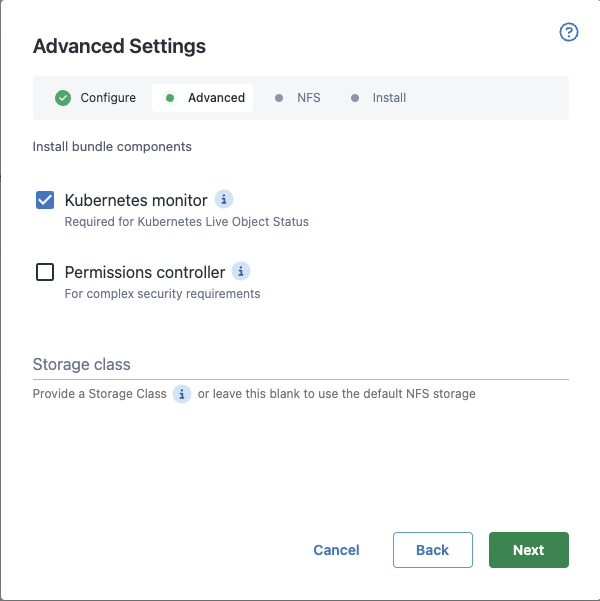
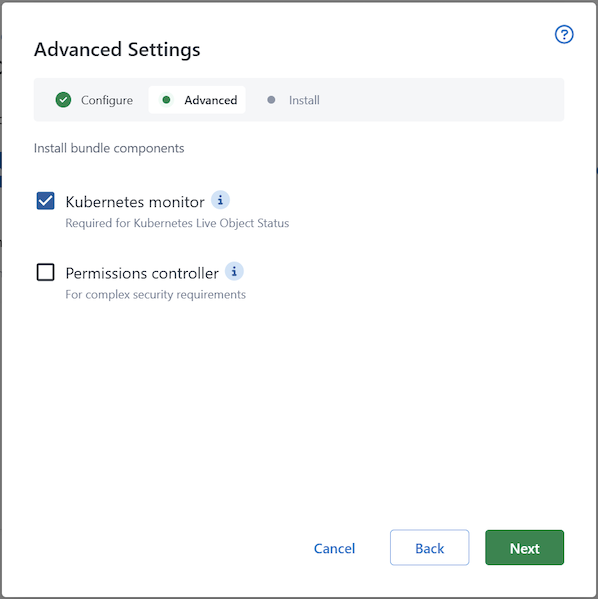
Tweak Kubernetes agent docs to support v3 (#3122)

diff --git a/src/pages/docs/kubernetes/targets/kubernetes-agent/index.md b/src/pages/docs/kubernetes/targets/kubernetes-agent/index.md
@@ -1,7 +1,7 @@
 ---
 layout: src/layouts/Default.astro
 pubDate: 2024-04-22
-modDate: 2026-01-15
+modDate: 2026-04-30
 title: Kubernetes agent
 navTitle: Overview
 navSection: Kubernetes agent
@@ -43,7 +43,7 @@ When you install the agent, several resources will be created within a cluster, 
 
 - Certain resource names may vary based on the target name and any overrides.
 
-- The NFS section to the right is created only when a user-defined storageClassName is not included.
+- The NFS section to the right is only relevant for pre-version v3 of the agent
 
 - `tentacle-certificate` is only created if you provide your own certificate during installation.
 
@@ -75,17 +75,22 @@ Upon completion of the task, the pod will terminate itself.
 
 The Kubernetes agent follows [semantic versioning](https://semver.org/), so a major agent version is locked to a Octopus Server version range. Updating to the latest major agent version requires updating to a supported Octopus Server. The supported versions for each agent major version are:
 
-| Kubernetes agent | Octopus Server           | Kubernetes cluster   |
-| ---------------- | ------------------------ | -------------------- |
-| 1.0.0 - 1.16.1   | **2024.2.6580** or newer | **1.26** to **1.29** |
-| 1.17.0 - 1.19.2  | **2024.2.6580** or newer | **1.27** to **1.30** |
-| 1.20.0 - 1.21.0  | **2024.2.6580** or newer | **1.28** to **1.31** |
-| 1.22.0 - 1.\*.\* | **2024.2.6580** or newer | **1.29** to **1.32** |
-| 2.0.0 - 2.2.1    | **2024.2.9396** or newer | **1.26** to **1.29** |
-| 2.3.0 - 2.8.2    | **2024.2.9396** or newer | **1.27** to **1.30** |
-| 2.9.0 - 2.11.3   | **2024.2.9396** or newer | **1.28** to **1.31** |
-| 2.12.0 - 2.25.1  | **2024.2.9396** or newer | **1.29** to **1.32** |
-| 2.26.0 - 2.\*.\* | **2024.2.9396** or newer | **1.30** to **1.33** |
+| Kubernetes agent  | Octopus Server             | Kubernetes cluster   |
+| ----------------- | -------------------------- | -------------------- |
+| 1.0.0 - 1.16.1    | **2024.2.6580** or newer   | **1.26** to **1.29** |
+| 1.17.0 - 1.19.2   | **2024.2.6580** or newer   | **1.27** to **1.30** |
+| 1.20.0 - 1.21.0   | **2024.2.6580** or newer   | **1.28** to **1.31** |
+| 1.22.0 - 1.24.0 * | **2024.2.6580** or newer   | **1.29** to **1.32** |
+| 2.0.0 - 2.2.1     | **2024.2.9396** or newer   | **1.26** to **1.29** |
+| 2.3.0 - 2.8.2     | **2024.2.9396** or newer   | **1.27** to **1.30** |
+| 2.9.0 - 2.11.3    | **2024.2.9396** or newer   | **1.28** to **1.31** |
+| 2.12.0 - 2.25.1   | **2024.2.9396** or newer   | **1.29** to **1.32** |
+| 2.26.0 - 2.37.0   | **2024.2.9396** or newer   | **1.30** to **1.33** |
+| 2.38.1 - 2.\*.\*  | **2024.2.9396** or newer   | **1.30** to **1.33** |
+| 3.0.0 - 3.\*.\*   | **2024.2.9396** or newer † | **1.32** to **1.35** |
+
+\* Version 1 of the Kubernetes agent is not longer maintained.  
+† Version 3 of the Kubernetes agent of the Kubernetes agent is compatible with this version, however it is only prompted as the installed version in **2026.2.7054** or newer.  
 
 Additionally, the Kubernetes agent only supports **Linux AMD64** and **Linux ARM64** Kubernetes nodes.
 
@@ -121,6 +126,8 @@ kubectl config view
 2. Select at least one [environment](/docs/infrastructure/environments) for the target.
 3. Select at least one [target tag](/docs/infrastructure/deployment-targets/target-tags) for the target.
 4. Optionally, set the default namespace that resources are deployed to. This is only used if the step configuration or Kubernetes manifests don't specify a namespace.
+5. Optionally, add the name of an existing [Storage Class](https://kubernetes.io/docs/concepts/storage/storage-classes/) for the agent to use. If the storage class supports the `ReadWriteMany` [access mode](https://kubernetes.io/docs/concepts/storage/persistent-volumes/#access-modes) and you wish to scale horizontally, check the checkbox below the storage class.
+If no storage class name is added, the default cluster storage class with `ReadWriteOnce` access mode will be used.
 
 :::div{.warning}
 As the display name is used for the Helm release name, this name must be unique for a given cluster. This means that if you have a Kubernetes agent and Kubernetes worker with the same name (e.g. `production`), then they will clash during installation.
@@ -135,28 +142,6 @@ If you do want a Kubernetes agent and Kubernetes worker to have the same name, T
 :::
 
 Choose if you want to install additional components, such as the [Kubernetes monitor](/docs/kubernetes/targets/kubernetes-agent/kubernetes-monitor) or the [Permissions controller](/docs/kubernetes/targets/kubernetes-agent/granular-permissions)
-
-Optionally, add the name of an existing [Storage Class](https://kubernetes.io/docs/concepts/storage/storage-classes/) for the agent to use. The storage class must support the ReadWriteMany [access mode](https://kubernetes.io/docs/concepts/storage/persistent-volumes/#access-modes).  
-If no storage class name is added, the default Network File System (NFS) storage will be used.
-
-### NFS CSI driver
-
-If no [Storage Class](https://kubernetes.io/docs/concepts/storage/storage-classes/) name is set, the default NFS storage pod will be used. This runs a small NFS pod next to the agent pod and provides shared storage to the agent and script pods.
-
-A requirement of using the NFS pod is the installation of the [NFS CSI Driver](https://github.com/kubernetes-csi/csi-driver-nfs). This can be achieved by executing the presented helm command in a terminal connected to the target Kubernetes cluster.
-
-:::figure
-![Kubernetes Agent Wizard NFS CSI Page](/docs/img/infrastructure/deployment-targets/kubernetes/kubernetes-agent/kubernetes-agent-wizard-nfs.png)
-:::
-
-:::div{.warning}
-If you receive an error with the text `failed to download` or `no cached repo found` when attempting to install the NFS CSI driver via helm, try executing the following command and then retrying the install command:
-
-```bash
-helm repo update
-```
-
-:::
 
 ### Installation helm command
 
@@ -309,6 +294,22 @@ This image contains the minimum required tooling to run Kubernetes workloads for
 - `kubectl`
 - `helm`
 - `powershell`
+
+## Modifying the Helm installation
+
+The Helm installation of the Kubernetes agent can be modified after installation if changes to the installed values need to be made. To help facilitate this, there is a dialog that can be launched that gives a pre-populated Helm command where additional values can be set.
+
+It is launched from the contedt menu on the Kubernetes agent settings page which can be navigated to **Infrastructure ➜ Deployment Targets ➜ [DEPLOYMENT TARGET] ➜ Settings**.
+
+:::figure
+![Kubernetes Agent Modify via Helm context menu item](/docs/img/infrastructure/deployment-targets/kubernetes/kubernetes-agent/kubernetes-agent-modify-via-helm-context-menu.png)
+:::
+
+Once launched, it presents a dialog prefilled with the correct namespace and helm release name. From there, this command can be modified, copied and executed in a terminal connected to the cluster.
+
+:::figure
+![Kubernetes Agent Modify via Helm dialog](/docs/img/infrastructure/deployment-targets/kubernetes/kubernetes-agent/kubernetes-agent-modify-via-helm-dialog.png)
+:::
 
 ## Upgrading the Kubernetes agent
 

diff --git a/src/pages/docs/kubernetes/targets/kubernetes-agent/troubleshooting/version-specific-notes.md b/src/pages/docs/kubernetes/targets/kubernetes-agent/troubleshooting/version-specific-notes.md
@@ -1,0 +1,33 @@
+---
+layout: src/layouts/Default.astro
+pubDate: 2026-04-30
+modDate: 2026-04-30
+title: Version specific notes
+description: Contains a list of version specific notes
+navOrder: 72
+---
+
+## Version 2
+
+### NFS CSI driver
+
+:::div{.hint}
+With the release of V3 of the agent, this is no longer required in the default installation. However, if you want to continue using the NFS storage with the v3 agent, you will need to install the NFS CSI driver.
+:::
+
+If no [Storage Class](https://kubernetes.io/docs/concepts/storage/storage-classes/) name is set, the default NFS storage pod will be used. This runs a small NFS pod next to the agent pod and provides shared storage to the agent and script pods.
+
+A requirement of using the NFS pod is the installation of the [NFS CSI Driver](https://github.com/kubernetes-csi/csi-driver-nfs). This can be achieved by executing the following helm command in a terminal connected to the target Kubernetes cluster.
+
+```bash
+helm upgrade --install --atomic --repo https://raw.githubusercontent.com/kubernetes-csi/csi-driver-nfs/master/charts --namespace kube-system --version "v4.*.*" csi-driver-nfs csi-driver-nfs
+```
+
+:::div{.warning}
+If you receive an error with the text `failed to download` or `no cached repo found` when attempting to install the NFS CSI driver via helm, try executing the following command and then retrying the install command:
+
+```bash
+helm repo update
+```
+
+:::
